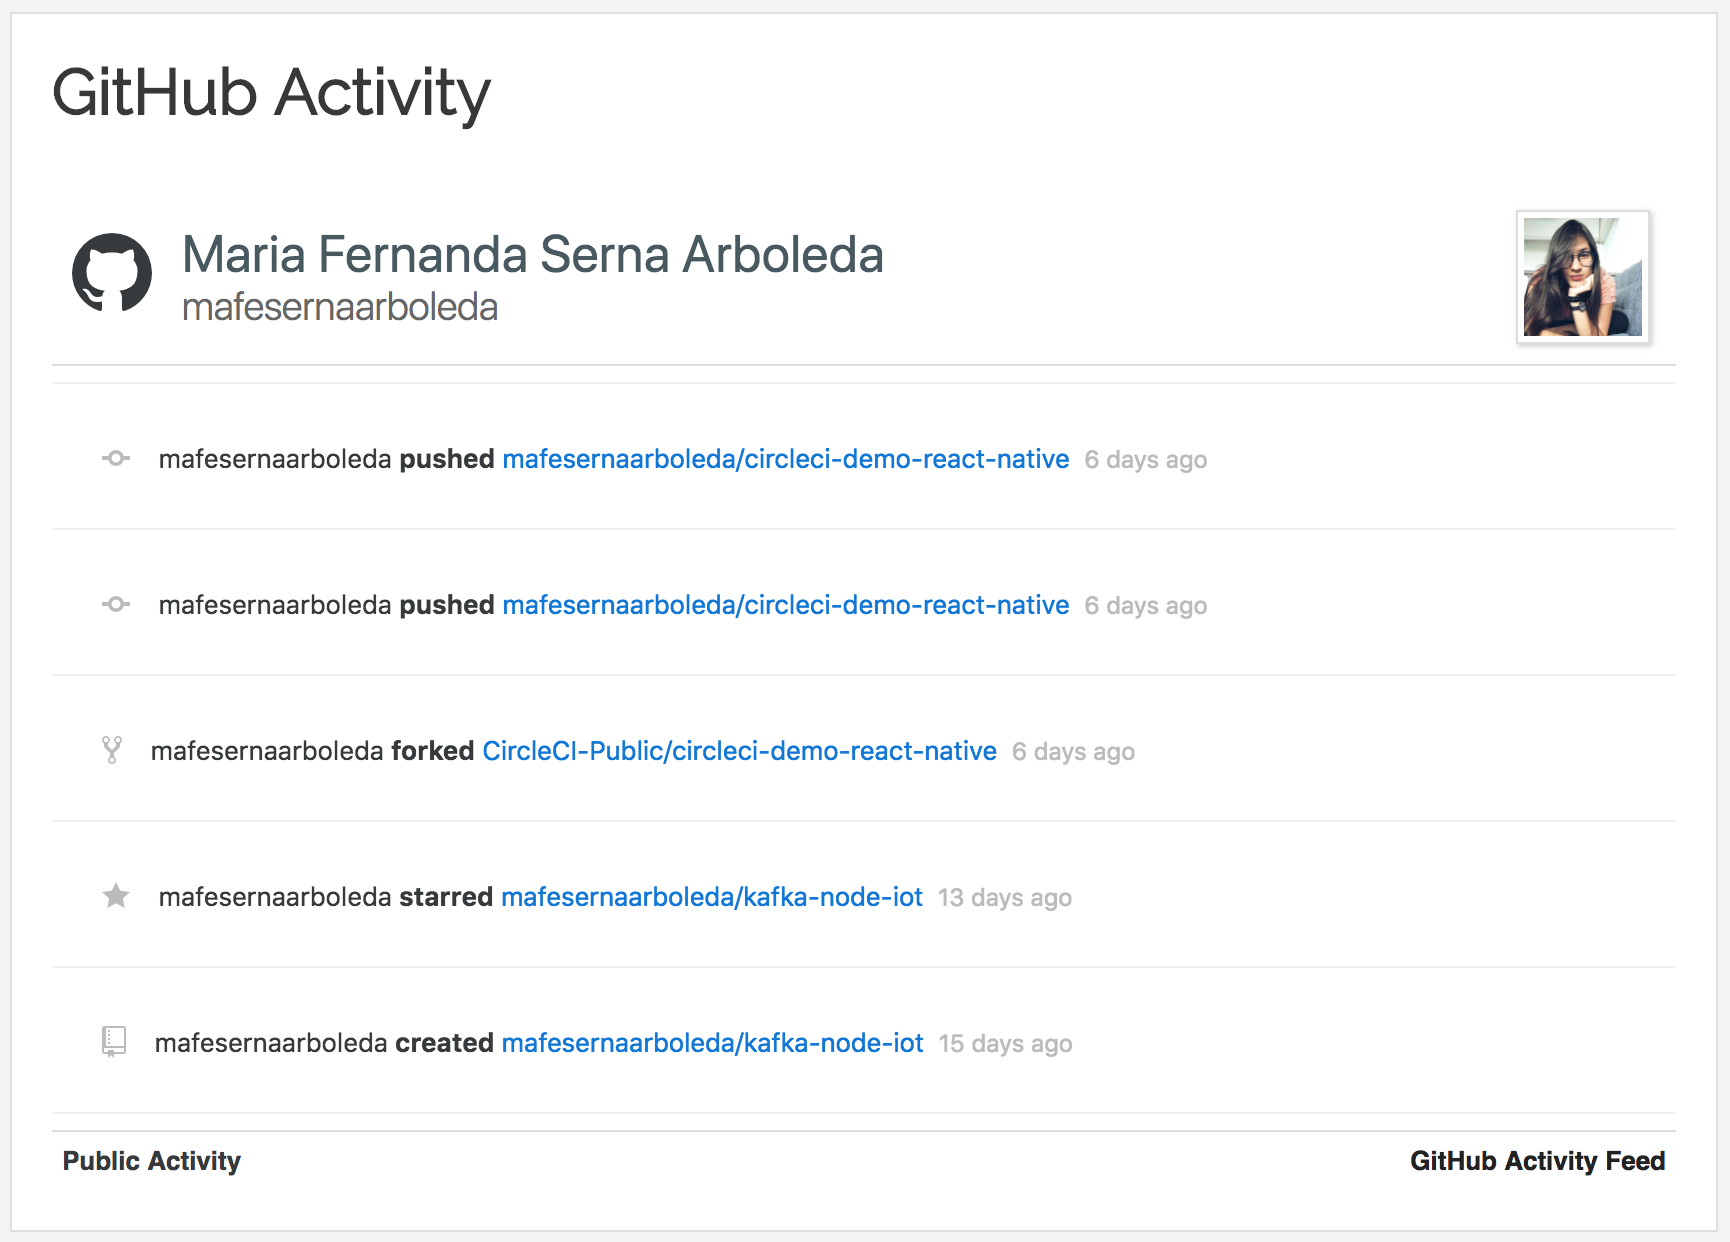
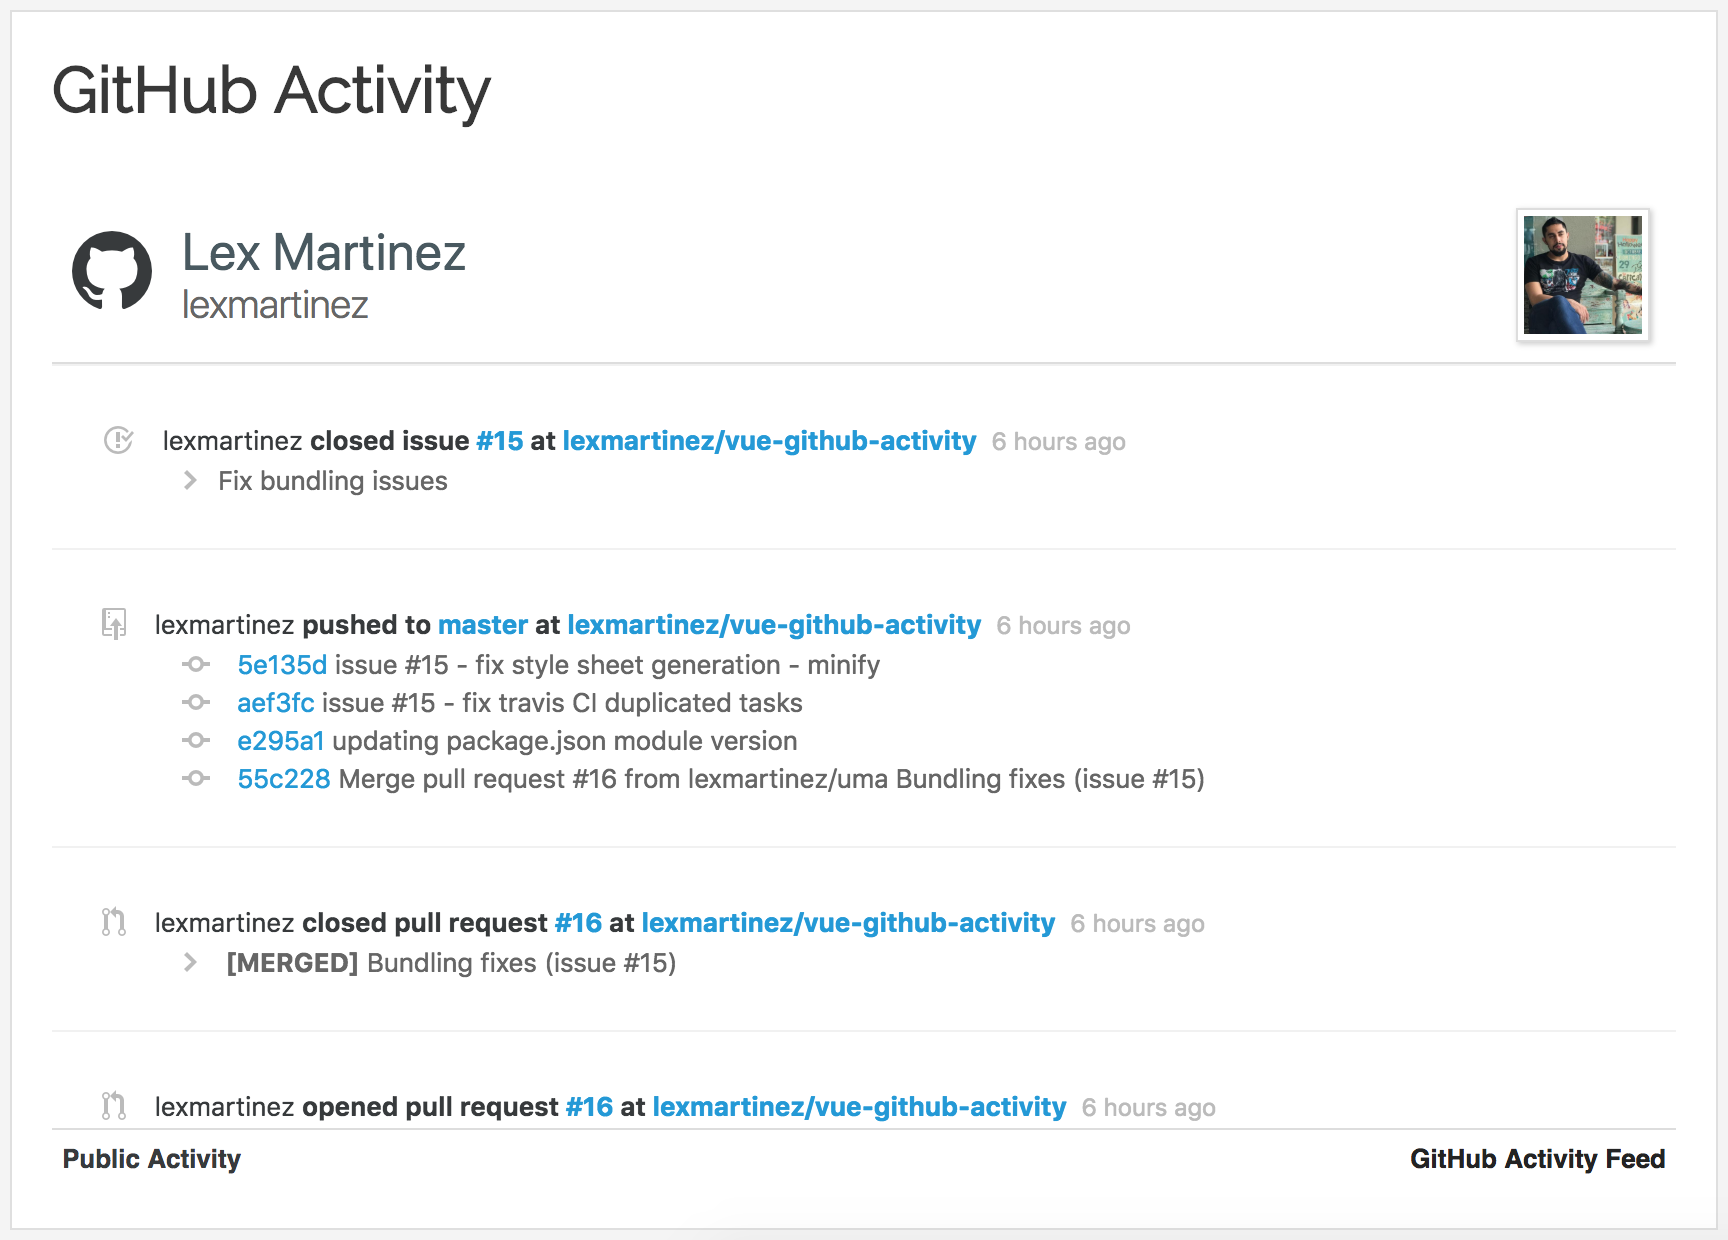
issue #14: update component screenshot - README.md & CHANGELOG.md updated

diff --git a/README.md b/README.md
@@ -2,7 +2,7 @@
 
 [![Build Status](https://travis-ci.org/lexmartinez/vue-github-activity.svg?branch=master)](https://travis-ci.org/lexmartinez/vue-github-activity)
 [![GitHub license](https://img.shields.io/github/license/lexmartinez/vue-github-activity.svg)](https://github.com/lexmartinez/vue-github-activity/blob/master/LICENSE.md)
-[![Last version](https://img.shields.io/badge/version-v2.0.0-blue.svg)](https://github.com/lexmartinez/vue-github-activity/blob/master/CHANGELOG.md)
+[![Last version](https://img.shields.io/badge/version-v2.1.0-blue.svg)](https://github.com/lexmartinez/vue-github-activity/blob/master/CHANGELOG.md)
 <br/>
 
 Simple VueJS component that creates a feed panel with your recent GitHub activity. It displays the user's name, username, photo, and a list of each individual activity type.

diff --git a/CHANGELOG.md b/CHANGELOG.md
@@ -2,6 +2,20 @@
 
 All notable changes to this project will be documented in this file.
 
+## v2.1.0 - `Uma`
+
+- **[FIX]** Bundling issues (style sheet minify & travisCI fix)
+- **[ADD]** Format tools implementation
+- **[ADD]** New event types supported:
+   - ReleaseEvent
+   - PullRequestReviewCommentEvent
+   - PublicEvent
+   - MemberEvent
+   - GollumEvent
+   - GistEvent
+   - FollowEvent
+   - CommitCommentEvent
+
 ## v2.0.0 - `Riley`
 
 - **[FIX]** Scope styles removed for external styling customization
